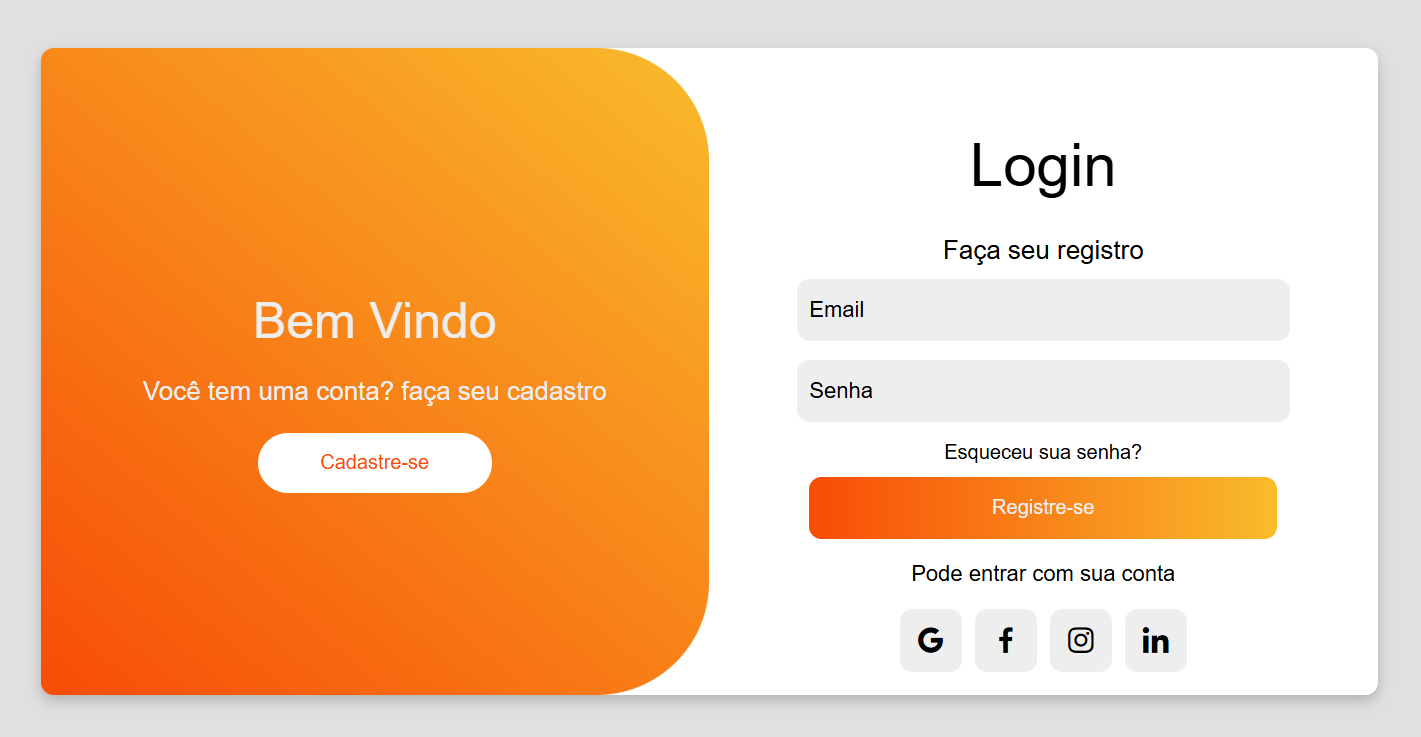
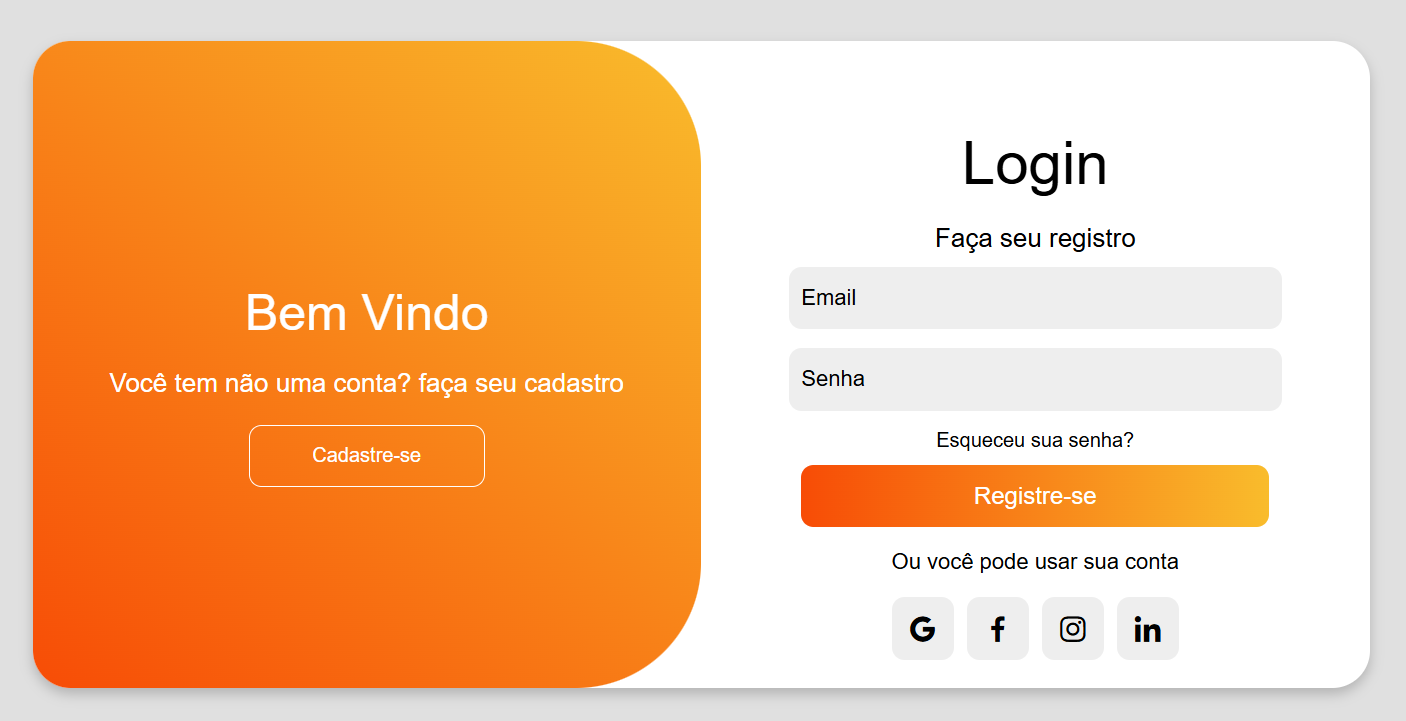
login

diff --git a/style.css b/style.css
@@ -16,12 +16,11 @@ body{
     display: flex;
     align-items: center;
     justify-content: center;
-    border-radius: 10px;
+    border-radius: 30px;
     box-shadow: 0px 5px 10px 0px rgba(0,0,0,0.2);
     background-color: #ffffff;
 }
 
-/*---Titulo---*/
 .titulo, .info{
     width: 50%;
     height: 100%;
@@ -29,50 +28,59 @@ body{
     align-items: center;
     justify-content: center;
     flex-direction: column;
-    border-top-left-radius: 10px;
-    border-bottom-left-radius: 10px;
+    border-top-left-radius: 30px;
+    border-bottom-left-radius: 30px;
 }
 
+/*---Titulo---*/
 .titulo{
     background: linear-gradient(40deg, #f74c06, #f9bc2c);
-    border-top-right-radius: 90px;
-    border-bottom-right-radius: 90px;
+    border-top-right-radius: 100px;
+    border-bottom-right-radius: 100px;
 }
 
 .titulo h2{
     font-size: 2.5rem;
     font-weight: 400;
     margin-bottom: 0px;
-    color: #eeeeee;
+    color: #ffffff;
 }
 
 .titulo p{
     font-size: 1.3rem;
-    color: #eeeeee;
+    color: #ffffff;
 }
 
 .titulo button{
     padding: 15px 50px;
     border: none;
     outline: none;
-    border-radius: 50px;
-    background-color: #ffffff;
+    border-radius: 10px;
+    border: 1px solid #ffffff;
+    background-color: transparent;
     font-size: 1rem;
-    color: #f74c06;
+    color: #ffffff;
     cursor: pointer;
+    transition-duration: 0.5s;
+}
+
+.titulo button:hover{
+    background-color: #ffffff;
+    color: #f74c06;
 }
 
 /*---Info---*/
 .info h3{
     font-size: 3rem;
     font-weight: 400;
-    margin-bottom: 0px;
+    margin-bottom: 10px;
 }
 
 .info h4{
     font-size: 1.3rem;
     font-weight: 400;
     margin-bottom: 10px;
+    margin-top: 10px;
 }
 
 .info p{
@@ -106,8 +114,8 @@ body{
     height: 50px;
     border: none;
     border-radius: 10px;
-    font-size: 1rem;
-    color: #eeeeee;
+    font-size: 1.2rem;
+    color: #ffffff;
     cursor: pointer;
     margin-top: 10px;
     background: linear-gradient(to right, #f74c06, #f9bc2c);

diff --git a/index.html b/index.html
@@ -11,7 +11,7 @@
     <div class="login">
         <div class="titulo">
             <h2>Bem Vindo</h2>
-            <p>Você tem uma conta? faça seu cadastro</p>
+            <p>Você tem não uma conta? faça seu cadastro</p>
             <button>Cadastre-se</button>
         </div>
         <div class="info">
@@ -21,7 +21,7 @@
             <input type="password" placeholder="Senha">
             <a href="#">Esqueceu sua senha?</a>
             <button>Registre-se</button>
-            <p>Pode entrar com sua conta</p>
+            <p>Ou você pode usar sua conta</p>
             <div class="icone">
                 <i class='bx bxl-google'></i>
                 <i class='bx bxl-facebook'></i>
